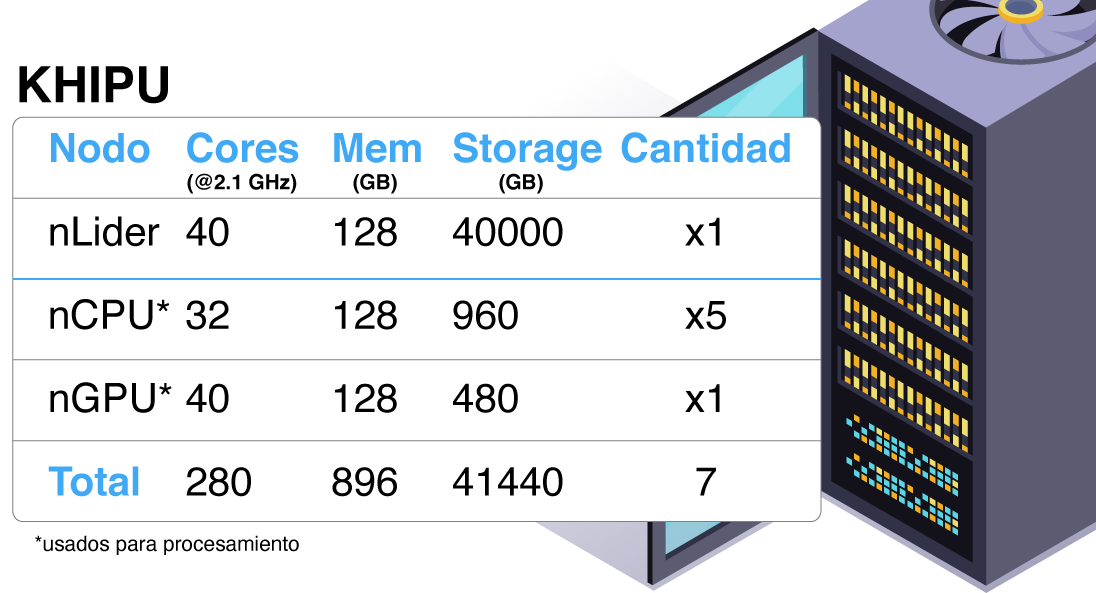
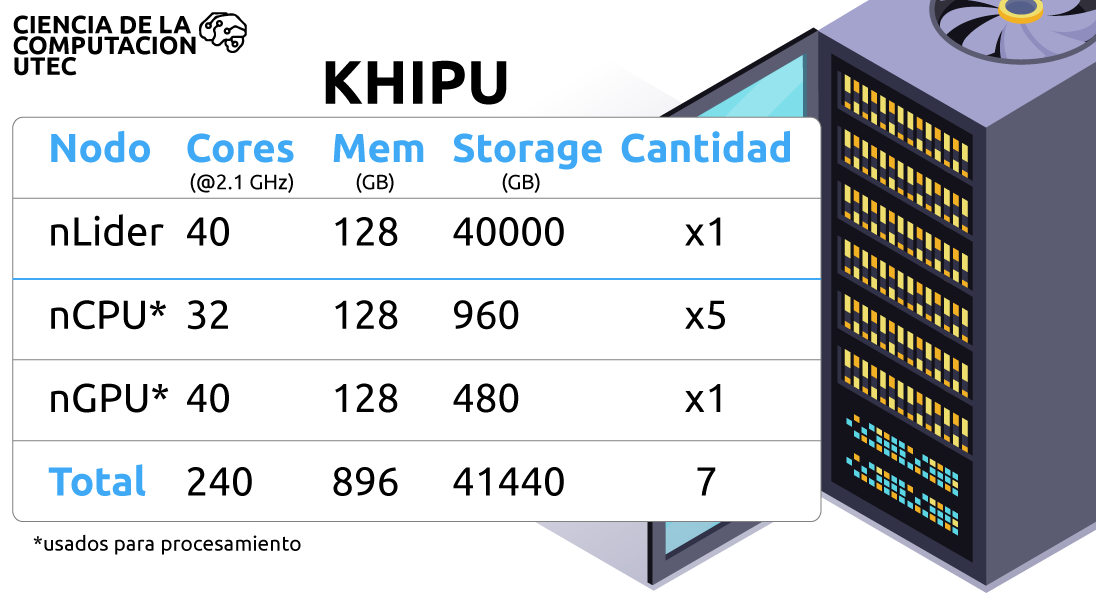
Khipu UPDATE

diff --git a/khipu/index.html b/khipu/index.html
@@ -50,8 +50,7 @@
 						<a href="infraestructura.html">Documentación</a>
 					</li>
 					<li>
-						<a onclick="scrollToTarget(2)">Contacto</a>.
-						<!-- <a id="pl-undefined">Contacto</a> -->
+						<a onclick="scrollToTarget('#bloc-16')">Contacto</a>
 					</li>
 				</ul>
 			</div>
@@ -61,11 +60,11 @@
 <!-- bloc-11 END -->
 
 <!-- bloc-12 -->
-<div class="bloc bgc-white bg-datacenter b-parallax bloc-bg-texture texture-darken bloc-fill-screen hidden-xs l-bloc" id="bloc-12">
+<div class="bloc bgc-white bg-datacenter b-parallax bloc-bg-texture texture-darken hidden-xs l-bloc bloc-fill-screen " id="bloc-12">
 	<div class="container">
 		<div class="row">
 			<div class="col-sm-12">
-				<img src="img/lazyload-ph.png" data-src="img/logo-03.png" class="center-block animated fadeIn none animDelay02 animSpeedSlow mg-md lazyload" width="60%" />
+				<a onclick="scrollToTarget('#bloc-14')"><img src="img/lazyload-ph.png" data-src="img/logo_button-04.png" class="center-block animated fadeIn none animDelay02 animSpeedSlow img-responsive desksize lazyload" /></a>
 			</div>
 		</div>
 	</div>
@@ -73,11 +72,11 @@
 <!-- bloc-12 END -->
 
 <!-- bloc-13 -->
-<div class="bloc bgc-white bg-datacenter bloc-bg-texture texture-darken bloc-fill-screen l-bloc hidden-lg hidden-md hidden-sm bg-l-edge" id="bloc-13">
+<div class="bloc bgc-white bg-datacenter bloc-bg-texture texture-darken bloc-fill-screen hidden-lg hidden-md hidden-sm bg-l-edge l-bloc" id="bloc-13">
 	<div class="container">
 		<div class="row">
 			<div class="col-sm-12">
-				<img src="img/lazyload-ph.png" data-src="img/logo-03.png" class="center-block animated fadeIn none animDelay02 animSpeedSlow mg-md  lazyload" width="90%" />
+				<a onclick="scrollToTarget('#bloc-14')"><img src="img/lazyload-ph.png" data-src="img/logo_button-04.png" class="center-block animated fadeIn none animDelay02 animSpeedSlow mg-md img-responsive mobsize lazyload" /></a>
 			</div>
 		</div>
 	</div>
@@ -89,12 +88,9 @@
 	<div class="container bloc-lg">
 		<div class="row">
 			<div class="col-xs-12 col-md-8 col-md-offset-2">
-				<h3 class="statement-bloc-text-mod">
-					<span><strong>Khipu&nbsp;es un cluster</strong> dedicado a la computación de alto desempeño,&nbsp;parte del Centro de Investigación para la Computación Sostenible <strong>(CICS)</strong> de la Universidad de Ingeniería y Tecnología <strong>(UTEC)</strong>.</span><br>
-				</h3>
-				<p class="text-center">
-					<br>
-				</p>
+				<h3 class="statement-bloc-text">
+					<span><strong>Khipu&nbsp;es un cluster</strong> dedicado a la computación de alto desempeño,&nbsp;parte del Centro de Investigación para la Computación Sostenible <strong>(CICS)</strong> y el Departamento de Ciencia de la Computación <strong>(CS)</strong> de la Universidad de Ingeniería y Tecnología <strong>(UTEC)</strong>.</span><br>
+				</h3><img src="img/lazyload-ph.png" data-src="img/cslogo-05.png" class="pull-right lazyload" height="40" />
 			</div>
 		</div>
 	</div>
@@ -102,7 +98,7 @@
 <!-- bloc-14 END -->
 
 <!-- bloc-15 -->
-<div class="bloc bgc-white tc-outer-space" id="bloc-15">
+<div class="bloc bgc-white tc-outer-space l-bloc" id="bloc-15">
 	<div class="container bloc-lg">
 		<div class="row">
 			<div class="col-sm-6 col-sm-push-6">
@@ -136,7 +132,7 @@
 	<div class="container bloc-lg">
 		<div class="row">
 			<div class="col-xs-12 col-md-8 col-md-offset-2">
-				<h3 class="statement-bloc-text-mod">
+				<h3 class="text-center statement-bloc-text">
 					<strong>Contacto</strong>
 				</h3>
 				<p class="text-center">
@@ -146,7 +142,7 @@
 					<a href="mailto:khipu@utec.edu.pe" class="btn btn-blue-gray btn-lg" target="_blank"><span class="feather-icon icon-mail icon-spacer"></span>khipu@utec.edu.pe</a>
 				</div>
 				<p class="text-center">
-					Universidad de Ingeniería y Tecnología (UTEC) <br>Jr. Medrano Silva 165 <br>Barranco, 15063, Perú<br>
+					Departamento de Ciencia de la Computación (CS)&nbsp;<br>Universidad de Ingeniería y Tecnología (UTEC) <br>Jr. Medrano Silva 165 <br>Barranco, 15063, Perú<br>
 				</p>
 			</div>
 		</div>

diff --git a/khipu/guia.html b/khipu/guia.html
@@ -119,7 +119,7 @@
 				</p>
 				<div class="alert alert-success codeformat">
 					<p>
-						ssh &lt;username&gt;@190.216.191.45
+						ssh &lt;username&gt;@khipu.utec.edu.pe
 					</p>
 				</div>
 				<p>
@@ -127,7 +127,7 @@
 				</p>
 				<div class="alert alert-success codeformat">
 					<p>
-						ssh juana.perez@190.216.191.45
+						ssh juana.perez@khipu.utec.edu.pe
 					</p>
 				</div>
 				<p>
@@ -135,7 +135,7 @@
 				</p>
 				<div class="alert alert-success codeformat">
 					<p>
-						Are you sure you want to continue connecting (yes/no)? <br>juana.perez@190.216.191.45's password:<br>
+						Are you sure you want to continue connecting (yes/no)? <br>juana.perez@khipu.utec.edu.pe's password:<br>
 					</p>
 				</div>
 				<p>
@@ -167,7 +167,7 @@
 				</p>
 				<div class="alert alert-success codeformat">
 					<p>
-						ssh-copy-id -i ~/.ssh/id_rsa.pub juana.perez@190.216.191.45<br>
+						ssh-copy-id -i ~/.ssh/id_rsa.pub juana.perez@khipu.utec.edu.pe<br>
 					</p>
 				</div>
 				<p>
@@ -175,7 +175,7 @@
 				</p>
 				<div class="alert alert-success codeformat">
 					<p>
-						type %HOMEPATH%\.ssh\id_rsa.pub | ssh juana.perez@190.216.191.45 "mkdir .ssh; cat &gt;&gt; .ssh/authorized_keys"<br>
+						type %HOMEPATH%\.ssh\id_rsa.pub | ssh juana.perez@khipu.utec.edu.pe "mkdir .ssh; cat &gt;&gt; .ssh/authorized_keys"<br>
 					</p>
 				</div>
 				<h4 class="mg-md">

diff --git a/khipu/style.css b/khipu/style.css
@@ -572,6 +572,9 @@ h1,h2,h3,h4,h5,h6,p,label,.btn,a{
 .side20{
 	width:20%;
 }
+.side80{
+	width:80%;
+}
 
 .sidebar--sticky {
 /*    position: sticky;
@@ -586,17 +589,6 @@ h1,h2,h3,h4,h5,h6,p,label,.btn,a{
     /*padding: 8px 0;*/
 }
 
-.sticky-navbar{
-	position:fixed;
-	top:8.4%;
-    width:30%;
-	z-index:1000;
-	transition: all .2s ease-out;
-}
-
-.side80{
-	width:80%;
-}
 .transp{
 	border-color:rgba(0,0,0,0.9);
 	background-color:rgba(192,192,192,0.3);
@@ -643,22 +635,18 @@ h1,h2,h3,h4,h5,h6,p,label,.btn,a{
 }
 .statement-bloc-text{
 	line-height:38px;
-	font-style:italic;
-	font-size:28px;
+	font-size:22px;
 	text-align:center;
 	font-weight:lighter;
 }
-
-.statement-bloc-text-mod{
-	/*line-height:38px;*/
-	/*font-style:italic;*/
-	/*font-size:28px;*/
-	text-align:center;
-	font-weight:lighter;
-}
-
 .blocs-mobile-signup-text{
 	font-size:33px;
+}
+.desksize{
+	width:57%;
+}
+.mobsize{
+	width:90%;
 }
 
 /* = Colour
